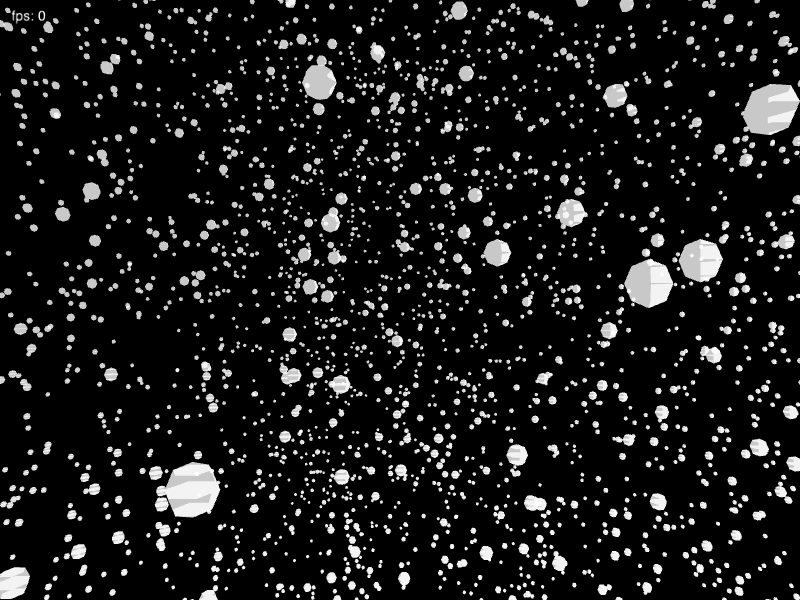
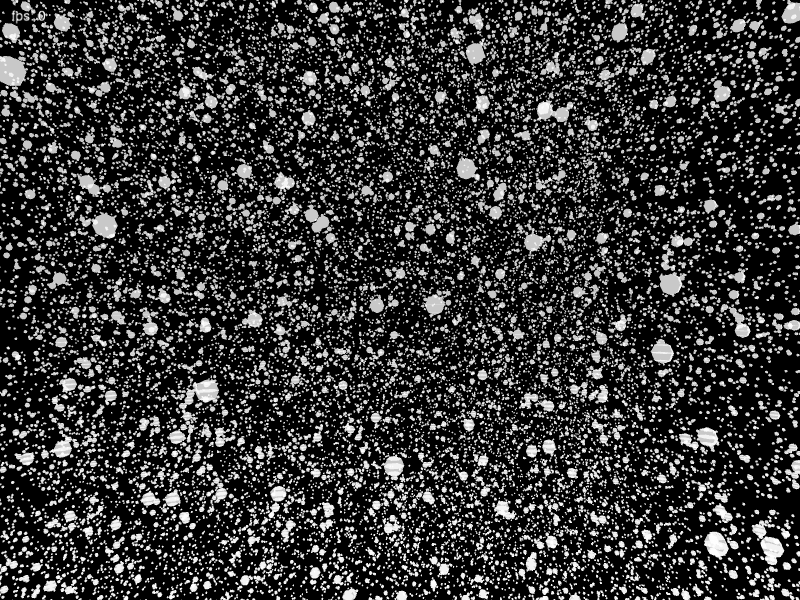
fix(Examples): StaticParticles ペアを原典と同じ 50,000 粒子へ戻す (#680) (#725)
## 目的

`Examples/Demos/Performance/StaticParticles{Immediate,Retained}` は「即時描画と
retained で fps が変わる」ことを見せる唯一の対の example。ところが粒子数が 5,000 に落ちていて、Apple
Silicon では**即時描画でも `frameRate(60)` に届いてしまい、HUD には 60 と 60
が並ぶだけ**だった。差を見せるための example が差を見せていない。

原典 `.pde` と同じ 50,000 に戻す。

Closes #680

## 変更点

| ファイル | 変更 |
|---|---|
| `StaticParticlesImmediate/App.swift` | `npartTotal` 5,000 → 50,000 /
`partSize` 6 → 3 |
| `StaticParticlesRetained/App.swift` | 同上。`makeParticles()` の doc
に載っている実測値を今回の測定へ更新 |
| `docs/ai/examples-shots.config.json` | retained の `settle` を 0.3
秒に（撮影で回転角を即時側と揃えるため。下記） |
| 実行結果画像 2 枚 + `docs/ai/examples-shots.json` | 撮り直し |

`partSize` は原典の 20 ではなく **3** にした。原典は半透明スプライトを重ねるが metaphor 版は不透明（即時は
`sphere`、retained は単色 quad）で、従来の 6 のままでも 50,000 個だと画面が白い塊で埋まり HUD
すら読めなくなる。

## 確認方法

release ビルドをヘッドレス（`METAPHOR_VIEWER=1`）で起動し、Probe の `performance`（#271）を
2 秒間隔で 3 回読んだ。`frameRate(60)` は原典のまま外していないので、**これは HUD に出る数字そのもの**。

| | Immediate | Retained |
|---|---|---|
| 5,000 / partSize 6（変更前） | 60.0 fps・CPU 21.7%・16.7 ms | 60.0 fps・CPU
2.4%・16.7 ms |
| 50,000 / partSize 3（変更後） | **31.6–32.5 fps**・CPU 100.8%・31 ms | **60.0
fps**・CPU 2.7%・16.7 ms |

変更前は CPU 使用率（21.7% vs 2.4%）にしか差が出ておらず、example が見せたい fps は同じだった。変更後は HUD
の数字が 32 と 60 に割れる。

`partSize` を 6 → 3 に落としても即時側は 32 fps のまま。CPU 100.8% = ドローコール発行が律速で、fill
rate ではないことの裏返しでもある。

### 実行結果画像

`make example-shots ARGS="--only <パス> --force"` で撮り直し。`--check` は本 PR
分について stale を報告しない。

**StaticParticlesImmediate**
[…]

diff --git a/Examples/Demos/Performance/StaticParticlesRetained/StaticParticlesRetained/App.swift b/Examples/Demos/Performance/StaticParticlesRetained/StaticParticlesRetained/App.swift
@@ -11,9 +11,11 @@ final class StaticParticlesRetained: Sketch {
         SketchConfig(width: 800, height: 600, title: "StaticParticlesRetained")
     }
 
-    // 対の StaticParticlesImmediate と同じ条件（原典は 50,000 / 20）。
-    let npartTotal = 5000
-    let partSize: Float = 6
+    // 対の StaticParticlesImmediate と同じ条件（粒子数は原典と同じ 50,000 / #680）。
+    // partSize だけ原典の 20 から落としてある: 原典は半透明スプライトを重ねるが
+    // metaphor 版は不透明の単色なので、20 のままだと画面が白い塊で埋まる。
+    let npartTotal = 50000
+    let partSize: Float = 3
 
     /// 全パーティクルを 1 つのメッシュに詰めたシェイプ。
     var particles: MShape!
@@ -59,8 +61,9 @@ final class StaticParticlesRetained: Sketch {
     /// metaphor の `.group` は 1 本の VBO に畳まれず子を 1 つずつ描く
     /// （`Sources/MetaphorCore/Drawing/MShapeDrawing.swift` の `case .group:`）。
     /// つまり子シェイプに分けると粒子数ぶんのメッシュ・ドローコールになり、即時描画と
-    /// 同じコストに戻る（実測 50,000 粒子 / 800x600 / Apple Silicon:
-    /// 即時 ≒ 36 fps、`.group` + `addChild` ≒ 36 fps、この 1 メッシュ版は 120 fps 上限に張り付き）。
+    /// 同じコストに戻る（実測 50,000 粒子 / 800x600 / Apple Silicon / release / `frameRate(60)`:
+    /// 即時 ≒ 32 fps、`.group` + `addChild` も即時と同程度、この 1 メッシュ版は 60 fps
+    /// 上限に張り付いたまま）。
     /// retained の利点を出すにはこのように 1 シェイプへまとめる。
     private func makeParticles() -> MShape {
         let s = createShape()

diff --git a/Examples/Demos/Performance/StaticParticlesImmediate/StaticParticlesImmediate/App.swift b/Examples/Demos/Performance/StaticParticlesImmediate/StaticParticlesImmediate/App.swift
@@ -6,8 +6,12 @@ final class StaticParticlesImmediate: Sketch {
         SketchConfig(width: 800, height: 600, title: "StaticParticlesImmediate")
     }
 
-    let npartTotal = 5000
-    let partSize: Float = 6
+    // 粒子数は原典と同じ 50,000。ここを減らすと即時描画でも frameRate(60) に届いてしまい、
+    // 対の StaticParticlesRetained と同じ数字が並んで比較にならない（#680）。
+    // partSize だけ原典の 20 から落としてある: 原典は半透明スプライトを重ねるが、
+    // metaphor 版は不透明の sphere なので 20 のままだと画面が白い塊で埋まる。
+    let npartTotal = 50000
+    let partSize: Float = 3
     var posX: [Float] = []
     var posY: [Float] = []
     var posZ: [Float] = []
@@ -41,7 +45,7 @@ final class StaticParticlesImmediate: Sketch {
             translate(posX[n], posY[n], posZ[n])
             // 3 引数 translate は 3D 描画にしか効かないため、原典の ellipse() ではなく
             // sphere() で描く（2D プリミティブだと全粒子が中央 1 点に潰れる / ADR-0005）。
-            // 5,000 個を毎フレーム描くので分割数は既定の 24 から落とす。
+            // 50,000 個を毎フレーム描くので分割数は既定の 24 から落とす。
             sphere(partSize / 2, detail: 6)
             popMatrix()
         }

diff --git a/changelog.d/680.fixed.md b/changelog.d/680.fixed.md
@@ -1,0 +1,8 @@
+- `Examples/Demos/Performance/StaticParticlesImmediate` and
+  `StaticParticlesRetained` are back to the 50,000 particles of the Processing
+  sketch they are ported from. At the 5,000 they had been reduced to, both sides
+  reached the 60 fps target on Apple Silicon, so the pair — the only place in the
+  examples where immediate and retained drawing can be compared — printed `60`
+  and `60` and showed no difference at all. At 50,000 the immediate side drops to
+  about 32 fps while the retained side stays at 60
+  ([#680](https://github.com/shinyaoguri/metaphor/issues/680))
